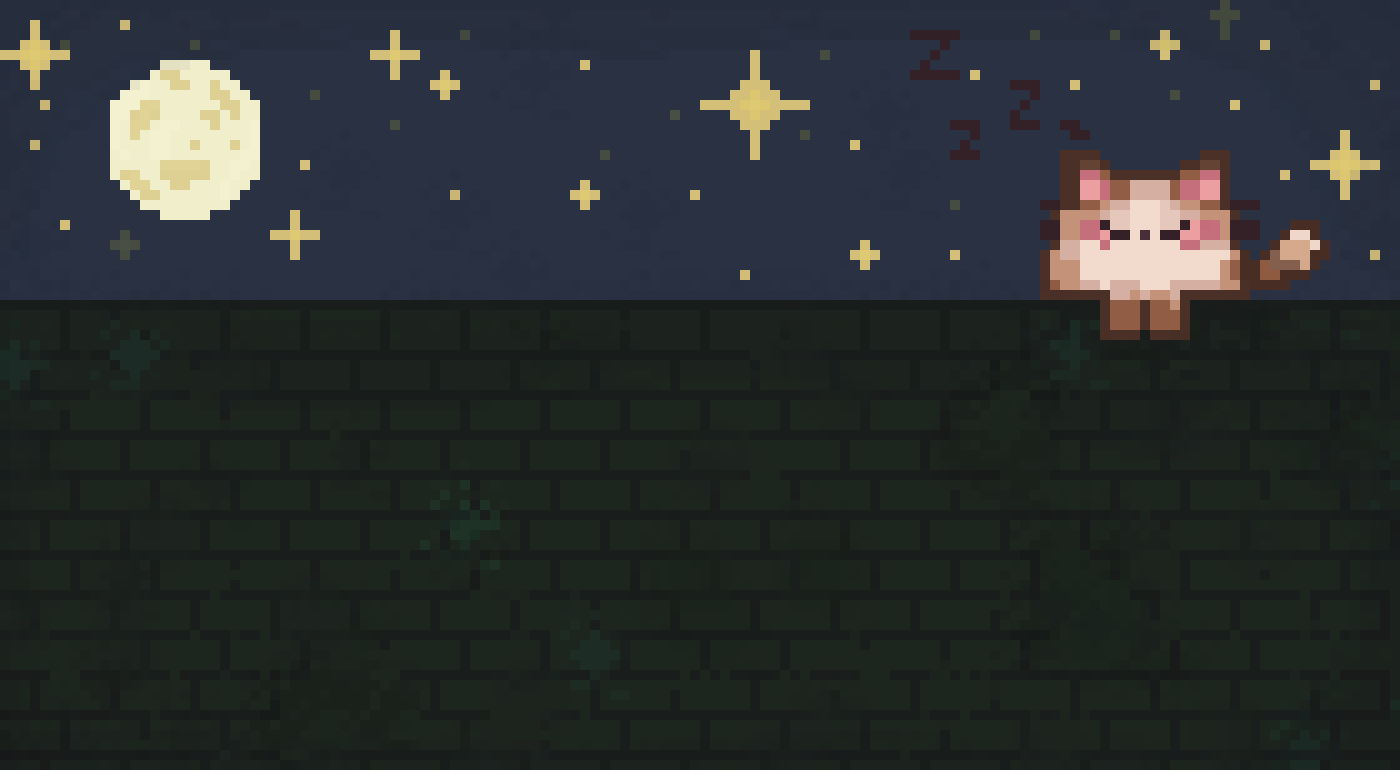
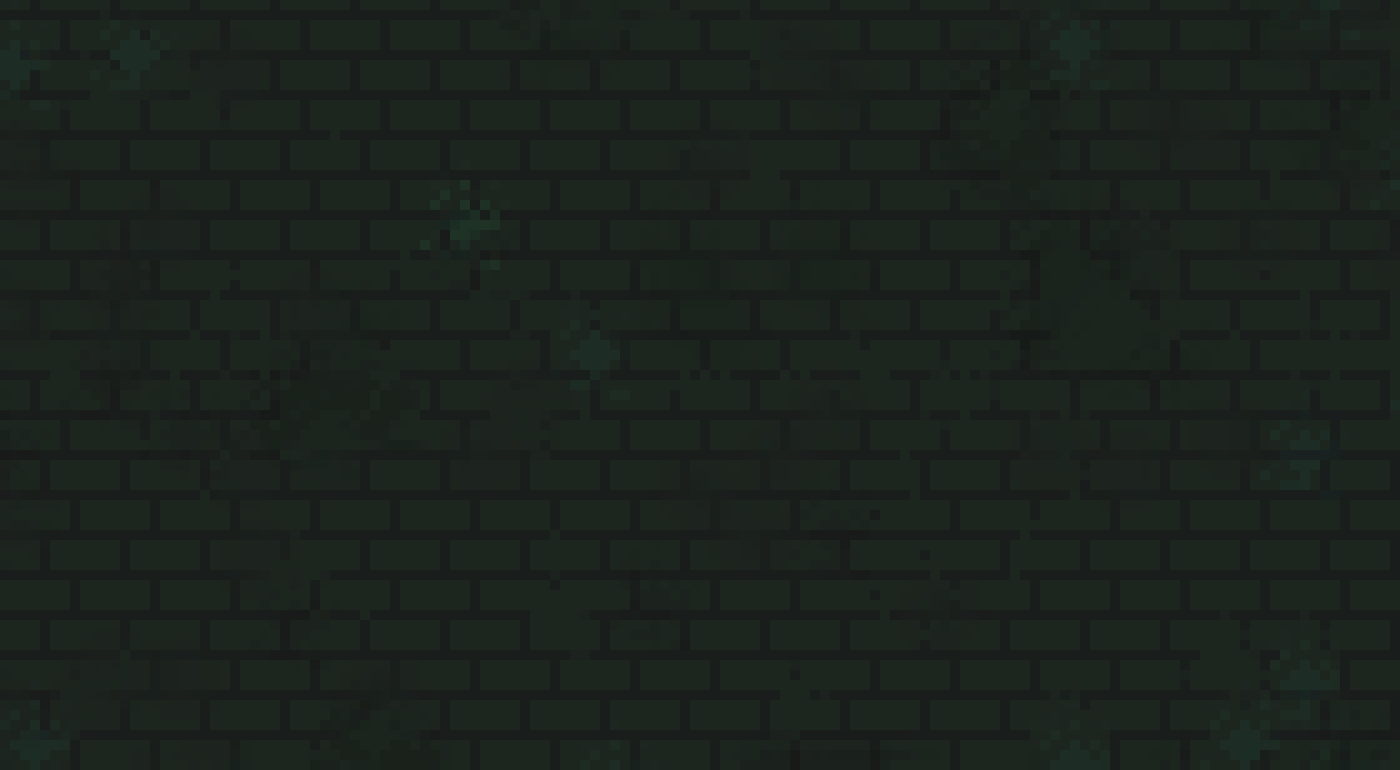
refactor: changed menu background

diff --git a/src/main.cpp b/src/main.cpp
@@ -3,17 +3,14 @@
 #include "levels.h"
 
 int main() {
-    // Получаем параметры текущего монитора (разрешение и частоту)
     sf::VideoMode desktopMode = sf::VideoMode::getDesktopMode();
-
-    // Создаем окно строго под размер рабочего стола в полноэкранном режиме
     sf::RenderWindow window(desktopMode, "Cat Game", sf::Style::Fullscreen);
     window.setFramerateLimit(60);
     window.setMouseCursorVisible(false);
 
-    // Загрузка текстур
-    sf::Texture catTex, jumpTex, keyTex, bgTex, obj1Tex, obj2Tex, spikeTex, doorTex;
-    // Пути теперь просто images/...
+    sf::Texture catTex, jumpTex, keyTex, bgTex, menuBgTex, obj1Tex, obj2Tex, spikeTex, doorTex;
+
+    if (!menuBgTex.loadFromFile("images/menuBackground.png")) return -1;
     if (!catTex.loadFromFile("images/kitty.png")) return -1;
     if (!jumpTex.loadFromFile("images/jump.png")) return -1;
     if (!keyTex.loadFromFile("images/key.png")) return -1;
@@ -27,14 +24,15 @@ int main() {
     obj2Tex.setRepeated(true);
     spikeTex.setRepeated(true);
 
-    // Центрируем меню динамически (относительно ширины и высоты экрана)
     float screenW = (float)desktopMode.width;
     float screenH = (float)desktopMode.height;
     
     sf::String names[] = { L"Уровень 1", L"Уровень 2", L"Уровень 3", L"Выход" };
     GameMenuData menu;
-    // Меню будет примерно по центру
     initGameMenu(menu, window, screenW / 2.2f, screenH / 2.5f, 4, names, 80, 100);
+
+    sf::Sprite menuBgSprite(menuBgTex);
+    menuBgSprite.setScale(screenW / menuBgSprite.getLocalBounds().width, screenH / menuBgSprite.getLocalBounds().height);
 
     while (window.isOpen()) {
         sf::Event event;
@@ -55,19 +53,13 @@ int main() {
                     if (choice == 2) runLevel3(window, catTex, jumpTex, keyTex, bgTex, obj1Tex, obj2Tex, spikeTex, doorTex);
                     if (choice == 3) window.close();
                     
-                    // После выхода из уровня сбрасываем вид, чтобы меню не уехало
                     window.setView(window.getDefaultView());
                 }
             }
         }
 
         window.clear();
-        
-        // Рисуем фон, растянутый на весь экран
-        sf::Sprite bgSprite(bgTex);
-        bgSprite.setScale(screenW / bgSprite.getLocalBounds().width, screenH / bgSprite.getLocalBounds().height);
-        
-        window.draw(bgSprite);
+        window.draw(menuBgSprite);
         drawMenu(menu);
         window.display();
     }
